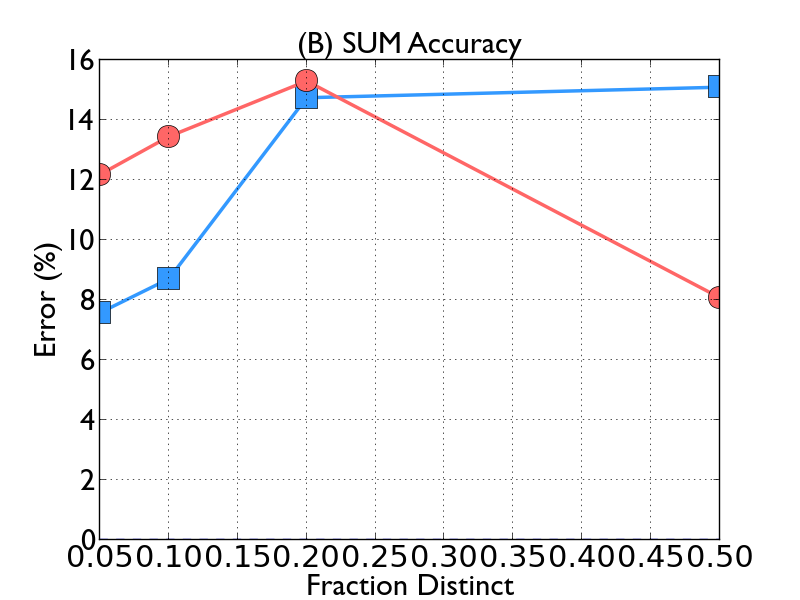
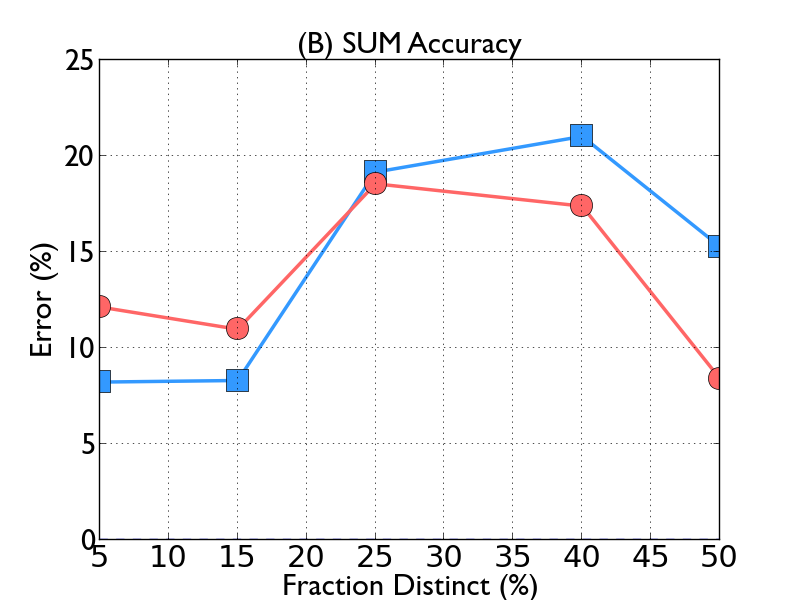
Updated

diff --git a/experiments/doExperiments.py b/experiments/doExperiments.py
@@ -256,7 +256,7 @@ def experiment5():
 				 							   cskew=0.5,
 				 							   nskew=0.10),
 						 		  query="count"), 
-						 parameters=[50.0/10,100.0/10,150.0/10,200.0/10,500.0/10,750.0/10,1000],
+						 parameters=[50.0/10,150.0/10,250.0/10,400.0/10,500.0/10],
 						 title="(A) COUNT Accuracy",
 						 xaxis="Fraction Distinct (%)",
 						 yaxis="Error (%)",
@@ -274,7 +274,7 @@ def experiment5():
 				 							   cskew=0.5,
 				 							   nskew=0.10),
 						 		  query="sum"), 
-						 parameters=[50.0/10,100.0/10,150.0/10,200.0/10,500.0/10,750.0/10,1000],
+						 parameters=[50.0/10,150.0/10,250.0/10,400.0/10,500.0/10],
 						 title="(B) SUM Accuracy",
 						 xaxis="Fraction Distinct (%)",
 						 yaxis="Error (%)",
@@ -292,29 +292,137 @@ def experiment5():
 				 							   cskew=0.5,
 				 							   nskew=0.10),
 						 		  query="count"), 
-						 parameters=[50.0/10,100.0/10,150.0/10,200.0/10,500.0/10,750.0/10,1000],
+						 parameters=[50.0/10,150.0/10,250.0/10,400.0/10,500.0/10],
 						 title="(C) AVG Accuracy",
 						 xaxis="Fraction Distinct (%)",
 						 yaxis="Error (%)",
 						 filename="results/exp5c.png")
+
+"""
+#6
+Accuracy and Data Error
+"""
+def experiment6():
+	plot_parameter_sweep(lambda p: 
+						 l1_error(run_T_trials(trials=40,
+						 					   cprivacy=0.10,
+						 					   selectivity=0.25,
+						 					   errorrate=p*0.25/100,
+						 					   size=1000,
+											   nprivacy=0.001,
+											   distinct=50,
+				 							   cskew=0.10,
+				 							   nskew=0.10),
+						 		  query="count"), 
+						 parameters=[5, 10, 15, 20, 25, 30, 35, 40, 45, 50],
+						 title="(A) COUNT Accuracy",
+						 xaxis="Data Error Rate (%)",
+						 yaxis="Error (%)",
+						 filename="results/exp6a.png")
+
+
+	plot_parameter_sweep(lambda p: 
+						 l1_error(run_T_trials(trials=40,
+						 					   cprivacy=0.10,
+						 					   selectivity=0.25,
+						 					   errorrate=p*0.25/100,
+						 					   size=1000,
+											   nprivacy=0.001,
+											   distinct=50,
+				 							   cskew=0.10,
+				 							   nskew=0.10),
+						 		  query="sum"), 
+						 parameters=[5, 10, 15, 20, 25, 30, 35, 40, 45, 50],
+						 title="(B) SUM Accuracy",
+						 xaxis="Data Error Rate (%)",
+						 yaxis="Error (%)",
+						 filename="results/exp6b.png")
+
+
+	plot_parameter_sweep(lambda p: 
+						 l1_error(run_T_trials(trials=40,
+						 					   cprivacy=0.10,
+						 					   selectivity=0.25,
+						 					   errorrate=p*0.25/100,
+						 					   size=1000,
+											   nprivacy=0.001,
+											   distinct=50,
+				 							   cskew=0.10,
+				 							   nskew=0.10),
+						 		  query="avg"), 
+						 parameters=[5, 10, 15, 20, 25, 30, 35, 40, 45, 50],
+						 title="(C) AVG Accuracy",
+						 xaxis="Data Error Rate (%)",
+						 yaxis="Error (%)",
+						 filename="results/exp6c.png")
+
+"""
+#7
+Accuracy and Merge Data Error
+"""
+def experiment7():
+	plot_parameter_sweep(lambda p: 
+						 l1_error(run_T_trials(trials=100,
+						 					   cprivacy=0.10,
+						 					   selectivity=0.25,
+						 					   errorrate=.20*(p/200.0),
+						 					   size=1000,
+											   nprivacy=0.001,
+											   distinct=50,
+				 							   cskew=0.10,
+				 							   nskew=0.10),
+						 		  query="count"), 
+						 parameters=[0, 10, 20, 30,40, 50, 60, 70, 80, 90, 100],
+						 title="(A) COUNT Accuracy",
+						 xaxis="Merge Error Rate (%)",
+						 yaxis="Error (%)",
+						 filename="results/exp7a.png")
+
+
+	plot_parameter_sweep(lambda p: 
+						 l1_error(run_T_trials(trials=100,
+						 					   cprivacy=0.10,
+						 					   selectivity=0.25,
+						 					   errorrate=.20*(p/200.0),
+						 					   size=1000,
+											   nprivacy=0.001,
+											   distinct=50,
+				 							   cskew=0.10,
+				 							   nskew=0.10),
+						 		  query="sum"), 
+						 parameters=[0, 10, 20, 30,40, 50, 60, 70, 80, 90, 100],
+						 title="(B) SUM Accuracy",
+						 xaxis="Merge Error Rate (%)",
+						 yaxis="Error (%)",
+						 filename="results/exp7b.png")
+
+
+	plot_parameter_sweep(lambda p: 
+						 l1_error(run_T_trials(trials=100,
+						 					   cprivacy=0.10,
+						 					   selectivity=0.25,
+						 					   errorrate=.20*(p/200.0),
+						 					   size=1000,
+											   nprivacy=0.001,
+											   distinct=50,
+				 							   cskew=0.10,
+				 							   nskew=0.10),
+						 		  query="avg"), 
+						 parameters=[0, 10, 20, 30,40, 50, 60, 70, 80, 90, 100],
+						 title="(C) AVG Accuracy",
+						 xaxis="Merge Error Rate (%)",
+						 yaxis="Error (%)",
+						 filename="results/exp7c.png")
 
 def main():
 	#experiment1()
 	#experiment2()
 	#experiment3()
 	#experiment4()
-	experiment5()
+	#experiment5()
+	#experiment6()
+	#experiment7()
 
-
-"""
-	for t in range(0,1000):
-		p = numpy.random.rand(1)[0]
-		dataset = generate(S=round(10000*numpy.random.rand(1)+500),N=int(round(100*numpy.random.rand(1)+2)),p=p,b=1)
-		res = countq(dataset, predicate=range(0,int(round(49*numpy.random.rand(1)))),p=p)
-		#print res[0]-res[2],res[1]-res[2]
-		#arr1.append(numpy.abs(res[0]-res[2]))
-		#arr2.append(numpy.abs(res[1]-res[2]))
-"""
 
 """
 This script runs as the main

diff --git a/experiments/experiments.py b/experiments/experiments.py
@@ -38,9 +38,9 @@ def run_T_trials(trials=100,
 		avg_dresult = avgq(dataset, predicate=corruptpred,p=cprivacy,b=nprivacy)
 
 		if count_cresult[2] > 0:
-			sumr.append((sum_cresult[0],sum_dresult[1],sum_cresult[2],sum_dresult[2]))
-			countr.append((count_cresult[0],count_dresult[1],count_cresult[2],count_dresult[2]))
-			avgr.append((avg_cresult[0],avg_dresult[1],avg_cresult[2],avg_dresult[2]))
+			sumr.append((sum_cresult[0],sum_dresult[1],sum_cresult[2],sum_dresult[2],sum_cresult[1]))
+			countr.append((count_cresult[0],count_dresult[1],count_cresult[2],count_dresult[2],count_cresult[1]))
+			avgr.append((avg_cresult[0],avg_dresult[1],avg_cresult[2],avg_dresult[2],count_cresult[1]))
 
 	return (sumr,countr,avgr)
 
@@ -53,12 +53,13 @@ def l1_error(result_tuple, query='sum'):
 	else:
 		index = 2
 	
-	errors = [ [100*numpy.abs(r[0]-r[2])/max(r[2],1),100*numpy.abs(r[1]-r[2])/max(r[2],1),100*numpy.abs(r[3]-r[2])/max(r[2],1)] for r in result_tuple[index]]
+	errors = [ [100*numpy.abs(r[0]-r[2])/max(r[2],1),100*numpy.abs(r[1]-r[2])/max(r[2],1),100*numpy.abs(r[3]-r[2])/max(r[2],1),100*numpy.abs(r[4]-r[2])/max(r[2],1)] for r in result_tuple[index]]
 	
 	return (numpy.mean(errors,axis=0), numpy.std(errors,axis=0))
 
 def plot_parameter_sweep(exp_lambda,
 						 parameters,
+						 error=False,
 						 xaxis="",
 						 yaxis="",
 						 title="",
@@ -87,8 +88,8 @@ def plot_parameter_sweep(exp_lambda,
 		Y2.append(result[0][1])
 		E2.append(result[1][1])
 
-		Y3.append(result[0][2])
-		E3.append(result[1][2])
+		Y3.append(result[0][3])
+		E3.append(result[1][3])
 
 	rcParams.update({'font.size': 22})
 
@@ -96,8 +97,12 @@ def plot_parameter_sweep(exp_lambda,
         '/Library/Fonts/Microsoft/Gill Sans MT.ttf') 
 
 	plt.plot(X, Y1, 's-', linewidth=2.5,markersize=16,color='#3399FF')
-	plt.plot(X, Y2, 'o-', linewidth=2.5,markersize=16,color='#FF6666')
-	plt.plot(X, Y3, '--')
+
+	if not error:
+		plt.plot(X, Y2, 'o-', linewidth=2.5,markersize=16,color='#FF6666')
+	else:
+		plt.plot(X, Y3, 'o-', linewidth=2.5,markersize=16,color='#FF6666')
+	#plt.plot(X, Y3, '--')
 	plt.title(title,fontproperties=fprop)
 	plt.xlabel(xaxis,fontproperties=fprop)
 	plt.ylabel(yaxis,fontproperties=fprop)
